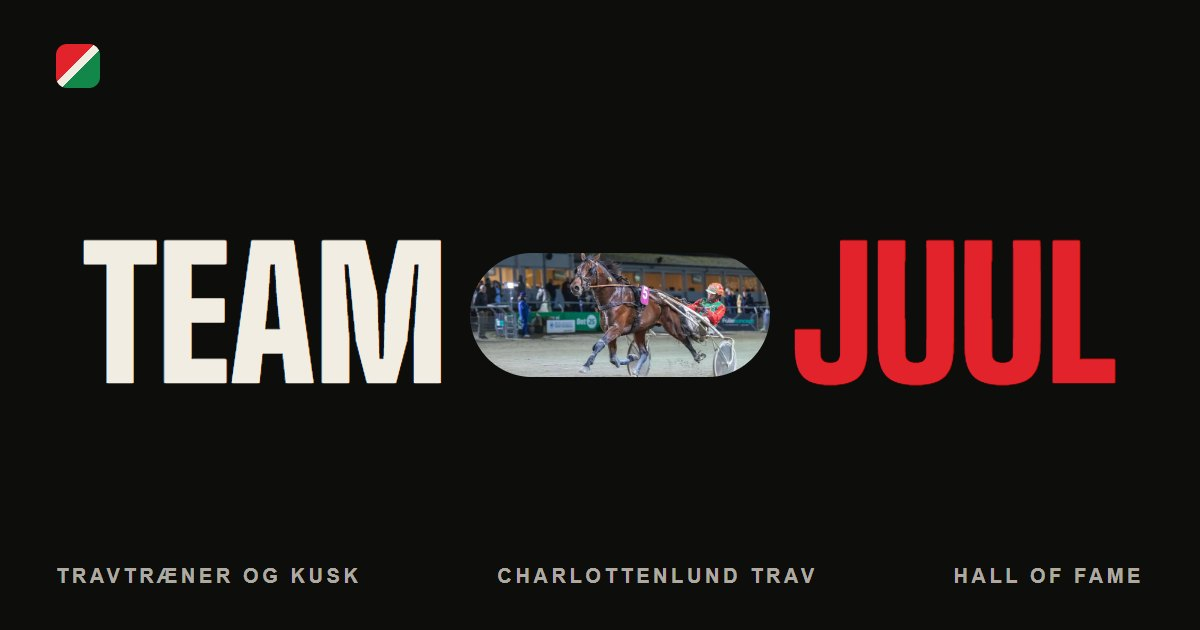
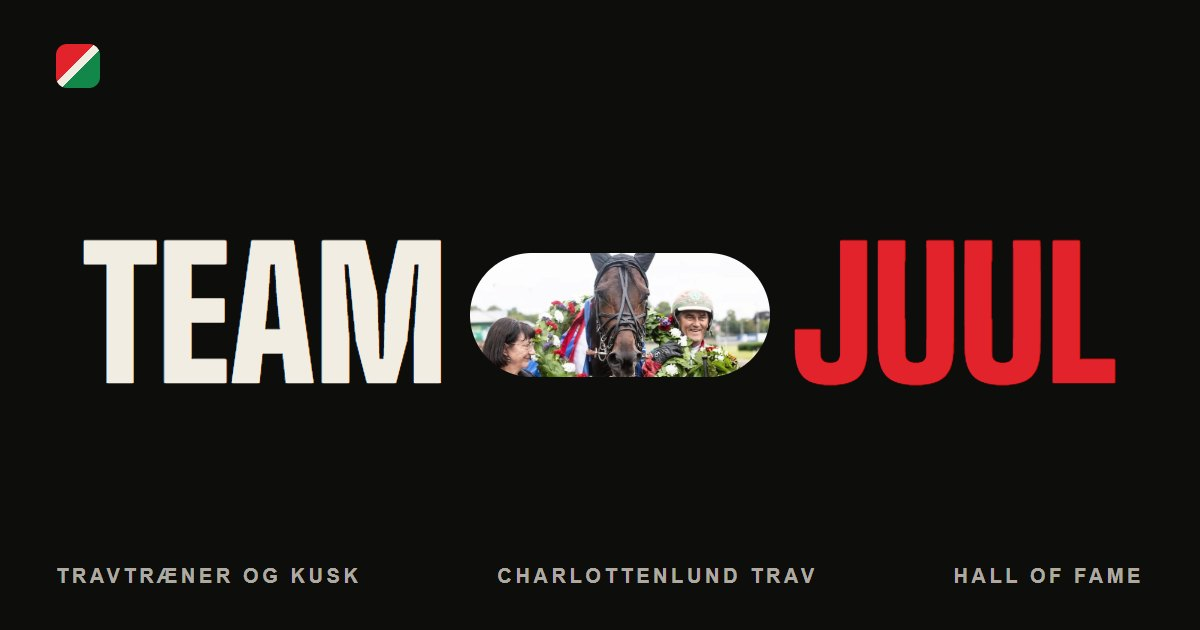
Topbilledet: Festival of Speed, derbyvinder 2021 (foto: Kjeld Mikkelsen)

Changed region(s): [[0.37, 0.3921, 0.6475, 0.6032]]

diff --git a/assets/css/site.css b/assets/css/site.css
@@ -148,7 +148,8 @@ html:not(.fx) .fremdrift { display: none; }
 .hero__ramme { --q: min(1, calc(var(--p) * 1.45)); --navn: min(13.4vw, 25svh); --pb: 1.8em; --ph: .74em; position: relative; height: 100svh; min-height: 560px; overflow: hidden; }
 .fx .hero__ramme { position: sticky; top: 0; }
 .hero__foto { position: absolute; left: 50%; top: 50%; z-index: 1; margin: 0; overflow: hidden; font-size: var(--navn); width: calc(var(--pb) + var(--q) * (100% - var(--pb))); height: calc(var(--ph) + var(--q) * (100% - var(--ph))); border-radius: calc((1 - var(--q)) * var(--ph) / 2); translate: -50% -50%; animation: pille 1.3s var(--ease) .15s both; }
-.hero__foto img { width: 100%; height: 100%; object-fit: cover; object-position: 44% 42%; }
+.hero__foto img { width: 100%; height: 100%; object-fit: cover; object-position: 50% 12%; }
+.hero__foto figcaption { position: absolute; top: calc(var(--top) + 54px); right: var(--kant); z-index: 2; padding: 7px 14px; border-radius: 999px; background: rgba(13, 13, 12, .55); backdrop-filter: blur(10px); font-size: .74rem; color: #fff; white-space: nowrap; opacity: clamp(0, calc(var(--q) * 2 - 1), 1); }
 .hero__slor { position: absolute; inset: 0; z-index: 1; background: linear-gradient(180deg, rgba(13, 13, 12, .7) 0%, rgba(13, 13, 12, .1) 30%, rgba(13, 13, 12, .2) 55%, rgba(13, 13, 12, .92) 100%); opacity: var(--q); pointer-events: none; }
 .hero__indhold { position: relative; z-index: 2; display: grid; grid-template-rows: auto 1fr auto; height: 100%; padding-top: var(--top); padding-bottom: clamp(24px, 4svh, 48px); }
 .hero__meta { display: flex; flex-wrap: wrap; justify-content: space-between; gap: 6px 24px; padding-block: 12px; border-top: 1px solid rgba(242, 237, 227, .2); font: 600 .72rem var(--sans); letter-spacing: .18em; text-transform: uppercase; color: rgba(242, 237, 227, .7); animation: op .8s var(--ease) .2s both; }
